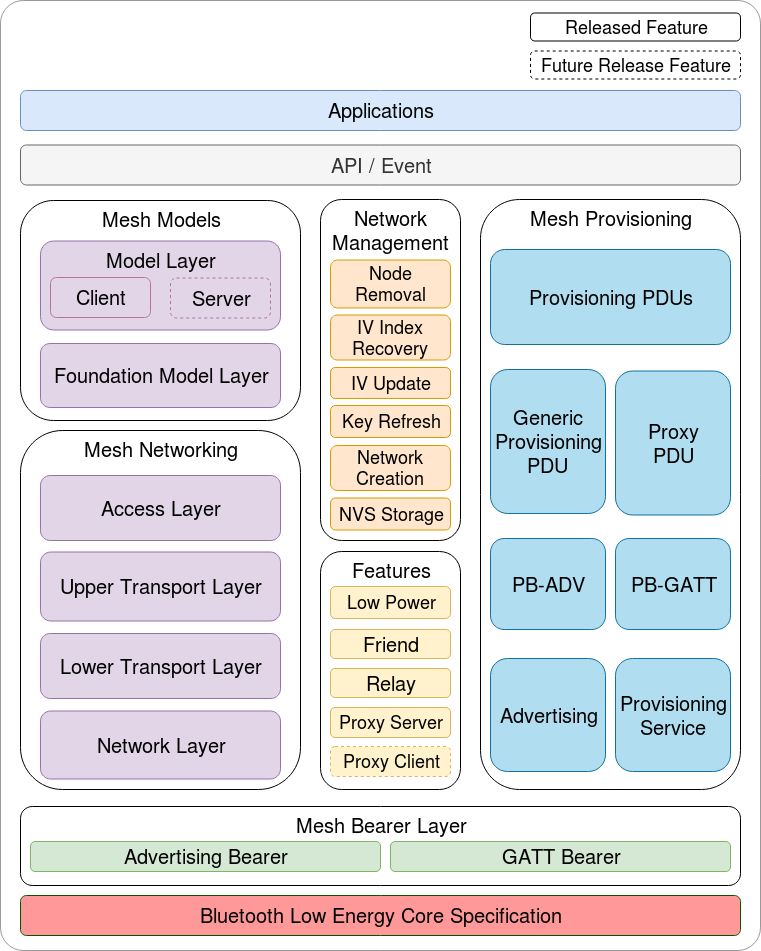
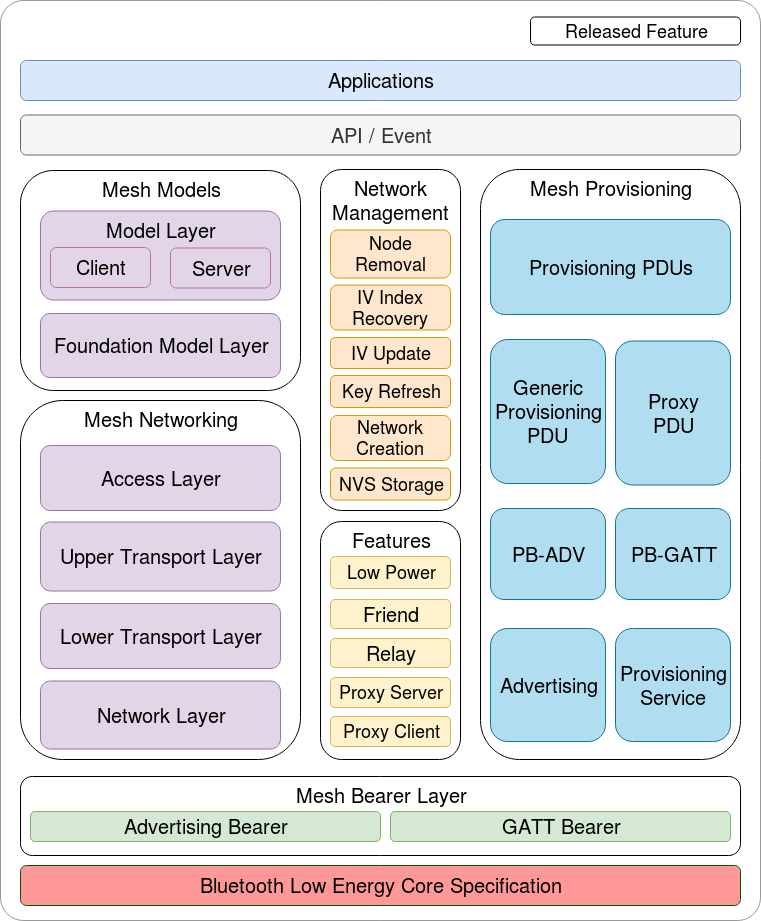
doc: update ble mesh docs based on the feature and example update

Changed region(s): [[0.0, 0.0, 0.9974, 1.0], [0.8463, 0.4256, 0.9369, 0.4864], [0.6347, 0.7296, 0.7858, 0.76]]

diff --git a/docs/en/api-guides/esp-ble-mesh/ble-mesh-index.rst b/docs/en/api-guides/esp-ble-mesh/ble-mesh-index.rst
@@ -2,13 +2,13 @@
 ESP-BLE-MESH
 ************
 
-Bluetooth mesh networking enables many-to-many (m:m) device communications and is optimized for creating large-scale device networks.
+Bluetooth® mesh networking enables many-to-many (m:m) device communications and is optimized for creating large-scale device networks.
 
 Devices may relay data to other devices not in direct radio range of the originating device. In this way, mesh networks can span very large physical areas and contain large numbers of devices. It is ideally suited for building automation, sensor networks, and other IoT solutions where tens, hundreds, or thousands of devices need to reliably and securely communicate with one another.
 
 Bluetooth mesh is not a wireless communications technology, but a networking technology. This technology is dependent upon Bluetooth Low Energy (BLE) - a wireless communications protocol stack.
 
-Built on top of Zephyr ESP-BLE-MESH stack, the ESP-BLE-MESH implementation supports device provisioning and node control. It also supports such node features as Proxy, Relay, Low power and Friend.
+Built on top of Zephyr Bluetooth Mesh stack, the ESP-BLE-MESH implementation supports device provisioning and node control. It also supports such node features as Proxy, Relay, Low power and Friend.
 
 Please see the :doc:`ble-mesh-architecture` for information about the implementation of ESP-BLE-MESH architecture and :doc:`ESP-BLE-MESH API Reference <../../api-reference/bluetooth/esp-ble-mesh>` for information about respective API.
 
@@ -43,7 +43,7 @@ Hardware:
 
 Software:
 
-* Example application :example:`bluetooth/esp_ble_mesh/ble_mesh_node` code to load to the ESP32 boards.
+* Example application :example:`bluetooth/esp_ble_mesh/ble_mesh_node/onoff_server` code to load to the ESP32 boards.
 * Mobile App: **nRF Mesh** for Android or iOS. Optionally you can use some other Apps:
 
     - `EspBleMesh <https://github.com/EspressifApp/EspBLEMeshForAndroid/releases/tag/v1.0.0>`_ Android App
@@ -70,12 +70,12 @@ Both `ESP32-DevKitC`_ and `ESP-WROVER-KIT`_ development boards are supported for
 Step 2. Configure Software
 """"""""""""""""""""""""""
 
-Enter the :example:`bluetooth/esp_ble_mesh/ble_mesh_node` example directory, run :code:`idf.py menuconfig` to select your board and then run :code:`idf.py build` to compile the example.
+Enter the :example:`bluetooth/esp_ble_mesh/ble_mesh_node/onoff_server` example directory, run :code:`idf.py menuconfig` to select your board and then run :code:`idf.py build` to compile the example.
 
 Step 3. Upload Application to Nodes
 """""""""""""""""""""""""""""""""""
 
-After the :example:`bluetooth/esp_ble_mesh/ble_mesh_node` example is compiled successfully, users can run :code:`idf.py flash` to upload the same generated binary files into each of the three development boards.
+After the :example:`bluetooth/esp_ble_mesh/ble_mesh_node/onoff_server` example is compiled successfully, users can run :code:`idf.py flash` to upload the same generated binary files into each of the three development boards.
 
 Once boards are powered on, the RGB LED on each board should turn **GREEN**.
 
@@ -185,7 +185,7 @@ Step 5. Operate Network
 
 After all the Generic OnOff Server Models within the three elements are bound with proper AppKey, users can use the App to turn on/off the RGB LED.
 
-In the :example:`bluetooth/esp_ble_mesh/ble_mesh_node` example, the first Generic OnOff Server Model is used to control the **RED** color, the second one is used to control the **GREEN** color and the third one is used to control the **BLUE** color.
+In the :example:`bluetooth/esp_ble_mesh/ble_mesh_node/onoff_server` example, the first Generic OnOff Server Model is used to control the **RED** color, the second one is used to control the **GREEN** color and the third one is used to control the **BLUE** color.
 
 .. figure:: ../../../_static/ble-mesh-generic-onoff.png
     :align: center
@@ -209,17 +209,17 @@ The following screenshot shows different board with different color on.
 ESP-BLE-MESH Examples
 =====================
 
-* :example:`ESP-BLE-MESH Node <bluetooth/esp_ble_mesh/ble_mesh_node/tutorial/Ble_Mesh_Node_Example_Walkthrough.md>` - shows the use of ESP-BLE-MESH as a node device having a Configuration Server model and a Generic OnOff Server model. A ESP-BLE-MESH provisioner can then provision the node and control a RGB LED representing on/off state, see :example:`example code <bluetooth/esp_ble_mesh/ble_mesh_node>`.
+* :example:`ESP-BLE-MESH Node OnOff Server <bluetooth/esp_ble_mesh/ble_mesh_node/onoff_server/tutorial/BLE_Mesh_Node_OnOff_Server_Example_Walkthrough.md>` - shows the use of ESP-BLE-MESH as a node having a Configuration Server model and a Generic OnOff Server model. A ESP-BLE-MESH Provisioner can then provision the unprovisioned device and control a RGB LED representing on/off state, see :example:`example code <bluetooth/esp_ble_mesh/ble_mesh_node/onoff_server>`.
 
-* :example:`ESP-BLE-MESH Client Model <bluetooth/esp_ble_mesh/ble_mesh_client_model/tutorial/ble_mesh_client_model.md>` - shows how a Generic OnOff Client model works within a node. The node has a Configuration Server model, a Generic OnOff Server model and a Generic OnOff Client model, see :example:`example code <bluetooth/esp_ble_mesh/ble_mesh_client_model>`.
+* :example:`ESP-BLE-MESH Node OnOff Client <bluetooth/esp_ble_mesh/ble_mesh_node/onoff_client/tutorial/BLE_Mesh_Node_OnOff_Client_Example_Waclthrough.md>` - shows how a Generic OnOff Client model works within a node. The node has a Configuration Server model and a Generic OnOff Client model, see :example:`example code <bluetooth/esp_ble_mesh/ble_mesh_node/onoff_client>`.
 
-* :example:`ESP-BLE-MESH Provisioner <bluetooth/esp_ble_mesh/ble_mesh_provisioner/tutorial/Ble_Mesh_Provisioner_Example_Walkthrough.md>` - shows how a device can act as a ESP-BLE-MESH provisioner to provision devices. The provisioner has a Configuration Server model, a Configuration Client model and a Generic OnOff Client model, see :example:`example code <bluetooth/esp_ble_mesh/ble_mesh_provisioner>`.
+* :example:`ESP-BLE-MESH Provisioner <bluetooth/esp_ble_mesh/ble_mesh_provisioner/tutorial/Ble_Mesh_Provisioner_Example_Walkthrough.md>` - shows how a device can act as an ESP-BLE-MESH Provisioner to provision devices. The Provisioner has a Configuration Server model, a Configuration Client model and a Generic OnOff Client model, see :example:`example code <bluetooth/esp_ble_mesh/ble_mesh_provisioner>`.
 
-* ESP-BLE-MESH Fast Provisioning - :example:`Client <bluetooth/esp_ble_mesh/ble_mesh_fast_provision/ble_mesh_fast_prov_client/tutorial/ble_mesh_fast_provision_client.md>` and :example:`Server <bluetooth/esp_ble_mesh/ble_mesh_fast_provision/ble_mesh_fast_prov_server/tutorial/ble_mesh_fast_provision_server.md>` - this demo is used for fast provisioning networks. It takes no more than 60 seconds to provision 100 devices, see :example:`example client code <bluetooth/esp_ble_mesh/ble_mesh_fast_provision/ble_mesh_fast_prov_client>` and :example:`example server code <bluetooth/esp_ble_mesh/ble_mesh_fast_provision/ble_mesh_fast_prov_server>`.
+* ESP-BLE-MESH Fast Provisioning - :example:`Client <bluetooth/esp_ble_mesh/ble_mesh_fast_provision/ble_mesh_fast_prov_client/tutorial/BLE_Mesh_Fast_Prov_Client_Example_Walkthrough.md>` and :example:`Server <bluetooth/esp_ble_mesh/ble_mesh_fast_provision/ble_mesh_fast_prov_server/tutorial/BLE_Mesh_Fast_Prov_Server_Example_Walkthrough.md>` - this example is used for showing how fast provisioning can be used in order to create a mesh network. It takes no more than 60 seconds to provision 100 devices, see :example:`example client code <bluetooth/esp_ble_mesh/ble_mesh_fast_provision/ble_mesh_fast_prov_client>` and :example:`example server code <bluetooth/esp_ble_mesh/ble_mesh_fast_provision/ble_mesh_fast_prov_server>`.
 
-* :example:`ESP-BLE-MESH and Wi-Fi Coexistence <bluetooth/esp_ble_mesh/ble_mesh_wifi_coexist/tutorial/ble_mesh_wifi_coexist.md>` - a demo that demonstrates the Wi-Fi and Bluetooth (BLE/BR/EDR) coexistence feature of ESP32. Simply put, users can use the Wi-Fi while operating Bluetooth, see :example:`example code <bluetooth/esp_ble_mesh/ble_mesh_wifi_coexist>`.
+* :example:`ESP-BLE-MESH and Wi-Fi Coexistence <bluetooth/esp_ble_mesh/ble_mesh_wifi_coexist/tutorial/BLE_Mesh_WiFi_Coexist_Example_Walkthrough.md>` - an example that demonstrates the Wi-Fi and Bluetooth (BLE/BR/EDR) coexistence feature of ESP32. Simply put, users can use the Wi-Fi while operating Bluetooth, see :example:`example code <bluetooth/esp_ble_mesh/ble_mesh_wifi_coexist>`.
 
-* ESP-BLE-MESH Node Console - a demo that implements BLE mesh node basic features. Within this demo a node can be scanned and provisioned by provisioner and reply to get/set message from provisioner, see :example:`example node code <bluetooth/esp_ble_mesh/ble_mesh_console/ble_mesh_node>` and :example:`example provisioner code <bluetooth/esp_ble_mesh/ble_mesh_console/ble_mesh_provisioner>`.
+* ESP-BLE-MESH Node Console - an example that implements BLE Mesh node basic features. Within this example a node can be scanned and provisioned by Provisioner and reply to get/set message from Provisioner, see :example:`example node code <bluetooth/esp_ble_mesh/ble_mesh_console/ble_mesh_node>` and :example:`example Provisioner code <bluetooth/esp_ble_mesh/ble_mesh_console/ble_mesh_provisioner>`.
 
 
 .. _esp-ble-mesh-demo-videos:

diff --git a/examples/bluetooth/esp_ble_mesh/README.md b/examples/bluetooth/esp_ble_mesh/README.md
@@ -1,72 +1,76 @@
-# ESP BLE Mesh Examples
+# ESP-BLE-MESH Examples
 
-[ESP BLE Mesh]($IDF_PATH/components/bt/esp_ble_mesh/) is the official BLE Mesh stack of Espressif Systems. We will provide long-term support for new features, performance optimization, etc.
+[ESP-BLE-MESH]($IDF_PATH/components/bt/esp_ble_mesh/) is the official Bluetooth® Mesh stack of Espressif Systems. We will provide long-term support for new features, performance optimization, etc.
 
-Please help note that breaking changes may be introduced into ESP BLE Mesh on [minor IDF versions](https://docs.espressif.com/projects/esp-idf/en/latest/versions.html).
+Please help note that breaking changes may be introduced into ESP-BLE-MESH on [minor IDF versions](https://docs.espressif.com/projects/esp-idf/en/latest/versions.html).
 
-Note: To use examples in this directory, you need to have Bluetooth enabled in configuration and Bluedroid selected as the host stack. ESP BLE Mesh will support NimBLE host soon, and currently the integration of NimBLE host with ESP BLE Mesh stack is under development.
+Note: To use examples in this directory, you need to have Bluetooth enabled in configuration, and either Bluedroid or NimBLE can be selected as the host stack.
 
 # Example Layout
 
-This directory includes examples to demonstrate BLE Mesh functionality based on Zephyr (https://github.com/zephyrproject-rtos/zephyr) Mesh stack.
-
-## ble_mesh_client_model
-
-This example shows how ESP32 acts as a BLE Mesh Node with Generic OnOff Client & Server Models in the Primary Element.
-
-See the [README.md](./ble_mesh_client_model/README.md) file in the example [ble_mesh_client_model](./ble_mesh_client_model/).
+This directory includes examples to demonstrate ESP-BLE-MESH functionality based on [Zephyr Bluetooth Mesh stack](https://github.com/zephyrproject-rtos/zephyr/tree/master/subsys/bluetooth/mesh).
 
 ## ble_mesh_console
 
-This example demonstrates how ESP BLE Mesh uses Console for message transmitting/receiving tests.
+This example demonstrates how ESP-BLE-MESH uses Console for message transmitting/receiving tests.
 
-### ble_mesh_node
+#### ble_mesh_node
 
 This example shows how ESP32 acts as a BLE Mesh Node and sends vendor messages for testing.
 
-See the [README.md](./ble_mesh_console/ble_mesh_node/README.md) file in the example [ble_mesh_node](./ble_mesh_console/ble_mesh_node/).
+See [ble_mesh_node](ble_mesh_console/ble_mesh_node) folder for more details.
 
-### ble_mesh_provisioner
+#### ble_mesh_provisioner
 
 This example shows how ESP32 acts as a BLE Mesh Provisioner and sends vendor messages for testing.
 
-See the [README.md](./ble_mesh_console/ble_mesh_provisioner/README.md) file in the example [ble_mesh_provisioner](./ble_mesh_console/ble_mesh_provisioner/).
+See [ble_mesh_provisioner](ble_mesh_console/ble_mesh_provisioner) folder for more details.
 
 ## ble_mesh_fast_provision
 
-This example illustrates the solution of ESP BLE Mesh Fast Provisioning.
+This example illustrates the solution of ESP-BLE-MESH Fast Provisioning.
 
-### ble_mesh_fast_prov_client
+#### ble_mesh_fast_prov_client
 
-This example shows how ESP32, acting as a BLE Mesh Fast Provisioning Client, provisions other unprovisioned devices and then control the nodes.
+This example shows how ESP32, acting as a BLE Mesh Fast Provisioning Client, provisions other unprovisioned devices and then controls the nodes.
 
-See the [README.md](./ble_mesh_fast_provision/ble_mesh_fast_prov_client/README.md) file in the example [ble_mesh_fast_prov_client](./ble_mesh_fast_provision/ble_mesh_fast_prov_client/).
+See [ble_mesh_fast_prov_client](ble_mesh_fast_provision/ble_mesh_fast_prov_client) folder for more details.
 
-### ble_mesh_fast_prov_server
+#### ble_mesh_fast_prov_server
 
 This example illustrates the process that:
-1. Firstly as a BLE Mesh Fast Provisioning Server, ESP32 is provisioned into a Node;
-2. and then provisions other unprovisioned devices as a Temporary Provisioner.
+1. ESP32 as a BLE Mesh Fast Provisioning Server is provisioned into a node;
+2. ESP32 as a Temporary Provisioner provisions other unprovisioned devices.
 
-See the [README.md](./ble_mesh_fast_provision/ble_mesh_fast_prov_server/README.md) file in the example [ble_mesh_fast_prov_server](./ble_mesh_fast_provision/ble_mesh_fast_prov_server/).
+See [ble_mesh_fast_prov_server](ble_mesh_fast_provision/ble_mesh_fast_prov_server) folder for more details.
 
 ## ble_mesh_node
 
-This example shows how ESP32 acts as a BLE Mesh Node with only Generic OnOff Server Model in the Primary Element.
+This example demonstrates how ESP32 acts as a BLE Mesh node with Generic OnOff Server model or Generic OnOff Client model on board.
 
-See the [README.md](./ble_mesh_node/README.md) file in the example [ble_mesh_node](./ble_mesh_node/).
+#### onoff_client
+
+This example shows how ESP32 acts as a BLE Mesh Node with Generic OnOff Client model in the Primary Element.
+
+See [onoff_client](ble_mesh_node/onoff_client) folder for more details.
+
+#### onoff_server
+
+This example shows how ESP32 acts as a BLE Mesh Node with only Generic OnOff Server model in the Primary Element.
+
+See [onoff_server](ble_mesh_node/onoff_server) folder for more details.
 
 ## ble_mesh_provisioner
 
 This example shows how ESP32 acts as a BLE Mesh Provisioner and provisions other unprovisioned devices.
 
-See the [README.md](./ble_mesh_provisioner/README.md) file in the example [ble_mesh_provisioner](./ble_mesh_provisioner/).
+See [ble_mesh_provisioner](ble_mesh_provisioner) folder for more details.
 
 ## ble_mesh_wifi_coexist
 
 This example shows how ESP32 acts as a BLE Mesh Fast Provisioning Server and coexists with Wi-Fi iperf functionality.
 
-See the [README.md](./ble_mesh_wifi_coexist/README.md) file in the example [ble_mesh_wifi_coexist](./ble_mesh_wifi_coexist/).
+See [ble_mesh_wifi_coexist](ble_mesh_wifi_coexist) folder for more details.
 
 # More
 

diff --git a/docs/en/api-guides/esp-ble-mesh/ble-mesh-feature-list.rst b/docs/en/api-guides/esp-ble-mesh/ble-mesh-feature-list.rst
@@ -1,5 +1,5 @@
-Espressif ESP-BLE-MESH Feature List
-===================================
+ESP-BLE-MESH Feature List
+=========================
 
 Supported Features
 ------------------
@@ -22,7 +22,8 @@ Mesh Core
     * IV Update Procedure
     * Friend
     * Low Power
-    * Proxy
+    * Proxy Server
+    * Proxy Client
 
 * Multiple Client Models Run Simultaneously
     * Support multiple client models send packets to different nodes simultaneously
@@ -34,13 +35,13 @@ Mesh Core
 Mesh Models
 """""""""""
 
-* Foundation Models
-    * Configuration Server Model
-    * Configuration Client Model
-    * Health Server Model
-    * Health Client Model
+* Foundation models
+    * Configuration Server model
+    * Configuration Client model
+    * Health Server model
+    * Health Client model
 
-* Generic Client Models
+* Generic client models
     * Generic OnOff Client
     * Generic Level Client
     * Generic Default Transition Time Client
@@ -50,43 +51,81 @@ Mesh Models
     * Generic Location Client
     * Generic Property Client
 
-* Sensor Client Models
+* Sensor client models
     * Sensor Client
 
-* Time and Scenes Client Models
+* Time and Scenes client models
     * Time Client
     * Scene Client
     * Scheduler Client
 
-* Lighting Client Models
+* Lighting client models
     * Light Lightness Client
     * Light CTL Client
     * Light HSL Client
     * Light xyL Client
-    * Light LC Client 
+    * Light LC Client
 
-* Generic Server Models
-    * Generic OnOff Server (Simple)
+* Generic server models
+    * Generic OnOff Server
+    * Generic Level Server
+    * Generic Default Transition Time Server
+    * Generic Power OnOff Server
+    * Generic Power OnOff Setup Server
+    * Generic Power Level Server
+    * Generic Power Level Setup Server
+    * Generic Battery Server
+    * Generic Location Server
+    * Generic Location Setup Server
+    * Generic User Property Server
+    * Generic Admin Property Server
+    * Generic Manufacturer Property Server
+    * Generic Client Property Server
+
+* Sensor server models
+    * Sensor Server
+    * Sensor Setup Server
+
+* Time and Scenes server models
+    * Time Server
+    * Time Setup Server
+    * Scene Server
+    * Scene Setup Server
+    * Scheduler Server
+    * Scheduler Setup Server
+
+* Lighting server models
+    * Light Lightness Server
+    * Light Lightness Setup Server
+    * Light CTL Server
+    * Light CTL Temperature Server
+    * Light CTL Setup Server
+    * Light HSL Server
+    * Light HSL Hue Server
+    * Light HSL Saturation Server
+    * Light HSL Setup Server
+    * Light xyL Server
+    * Light xyL Setup Server
+    * Light LC Server
+    * Light LC Setup Server
 
 Mesh Applications
 """""""""""""""""
 
 * ESP-BLE-MESH Node
-    * :example:`Tutorial <bluetooth/esp_ble_mesh/ble_mesh_node/tutorial/Ble_Mesh_Node_Example_Walkthrough.md>`
+    * :example:`Tutorial <bluetooth/esp_ble_mesh/ble_mesh_node/onoff_client/tutorial/BLE_Mesh_Node_OnOff_Client_Example_Walkthrough.md>`
+    * :example:`Tutorial <bluetooth/esp_ble_mesh/ble_mesh_node/onoff_server/tutorial/BLE_Mesh_Node_OnOff_Server_Example_Walkthrough.md>`
     * :example:`Example <bluetooth/esp_ble_mesh/ble_mesh_node>`
-* ESP-BLE-MESH Node with client model
-    * :example:`Tutorial <bluetooth/esp_ble_mesh/ble_mesh_client_model/tutorial/ble_mesh_client_model.md>`
-    * :example:`Example <bluetooth/esp_ble_mesh/ble_mesh_client_model>`
 * ESP-BLE-MESH Provisioner
-    * :example:`Tutorial <bluetooth/esp_ble_mesh/ble_mesh_provisioner/tutorial/Ble_Mesh_Provisioner_Example_Walkthrough.md>`
+    * :example:`Tutorial <bluetooth/esp_ble_mesh/ble_mesh_provisioner/tutorial/BLE_Mesh_Provisioner_Example_Walkthrough.md>`
     * :example:`Example <bluetooth/esp_ble_mesh/ble_mesh_provisioner>`
 * ESP-BLE-MESH Fast Provisioning
-    * :example:`Fast Provisioning Client Model Tutorial <bluetooth/esp_ble_mesh/ble_mesh_fast_provision/ble_mesh_fast_prov_client/tutorial/ble_mesh_fast_provision_client.md>`
-    * :example:`Fast Provisioning Server Model Tutorial <bluetooth/esp_ble_mesh/ble_mesh_fast_provision/ble_mesh_fast_prov_server/tutorial/ble_mesh_fast_provision_server.md>`
+    * :example:`Fast Provisioning Client Model Tutorial <bluetooth/esp_ble_mesh/ble_mesh_fast_provision/ble_mesh_fast_prov_client/tutorial/BLE_Mesh_Fast_Prov_Client_Example_Walkthrough.md>`
+    * :example:`Fast Provisioning Server Model Tutorial <bluetooth/esp_ble_mesh/ble_mesh_fast_provision/ble_mesh_fast_prov_server/tutorial/BLE_Mesh_Fast_Prov_Server_Example_Walkthrough.md>`
     * :example:`Example <bluetooth/esp_ble_mesh/ble_mesh_fast_provision>`
     * `Demo Video <http://download.espressif.com/BLE_MESH/BLE_Mesh_Demo/V0.4_Demo_Fast_Provision/ESP32_BLE_Mesh_Fast_Provision.mp4>`__
 * ESP-BLE-MESH and Wi-Fi Coexistence
-    * :example:`Tutorial <bluetooth/esp_ble_mesh/ble_mesh_wifi_coexist/tutorial/ble_mesh_wifi_coexist.md>`
+    * :example:`Tutorial <bluetooth/esp_ble_mesh/ble_mesh_wifi_coexist/tutorial/BLE_Mesh_WiFi_Coexist_Example_Walkthrough.md>`
     * :example:`Example <bluetooth/esp_ble_mesh/ble_mesh_wifi_coexist>`
     * `Demo Video <http://download.espressif.com/BLE_MESH/BLE_Mesh_Demo/V0.5_Demo_Coexistence/ESP_BLE_MESH_%26_WIFI_Coexistence.mp4>`__
 * ESP-BLE-MESH Console Commands
@@ -99,15 +138,7 @@ Future Release Features
 Mesh Core
 """""""""
 
-* Proxy Client
-
-Mesh Models
-"""""""""""
-
-* Generic Server Models
-* Sensor Server Models
-* Time and Scenes Server Models
-* Lighting Server Models
+* Provisioner NVS Storage
 
 Mesh Applications
 """""""""""""""""

diff --git a/docs/en/api-guides/esp-ble-mesh/ble-mesh-architecture.rst b/docs/en/api-guides/esp-ble-mesh/ble-mesh-architecture.rst
@@ -308,6 +308,14 @@ Mesh Models are used to implement the specific functions of model in nodes. Serv
     - Send ESP-BLE-MESH Sensor Client messages and receive corresponding response messages
   * - :component_file:`time_scene_client.c <bt/esp_ble_mesh/mesh_models/client/time_scene_client.c>`
     - Send ESP-BLE-MESH Time Scene Client messages and receive corresponding response messages
+  * - :component_file:`generic_server.c <bt/esp_ble_mesh/mesh_models/server/generic_server.c>`
+    - Receive ESP-BLE-MESH Generic Client messages and send corresponding response messages
+  * - :component_file:`lighting_server.c <bt/esp_ble_mesh/mesh_models/server/lighting_server.c>`
+    - Receive ESP-BLE-MESH Lighting Client messages and send corresponding response messages
+  * - :component_file:`sensor_server.c <bt/esp_ble_mesh/mesh_models/server/sensor_server.c>`
+    - Receive ESP-BLE-MESH Sensor Client messages and send corresponding response messages
+  * - :component_file:`time_scene_server.c <bt/esp_ble_mesh/mesh_models/server/time_scene_server.c>`
+    - Receive ESP-BLE-MESH Time Scene Client messages and send corresponding response messages
 
 2.2 Mesh Bearers Implementation
 ^^^^^^^^^^^^^^^^^^^^^^^^^^^^^^^
